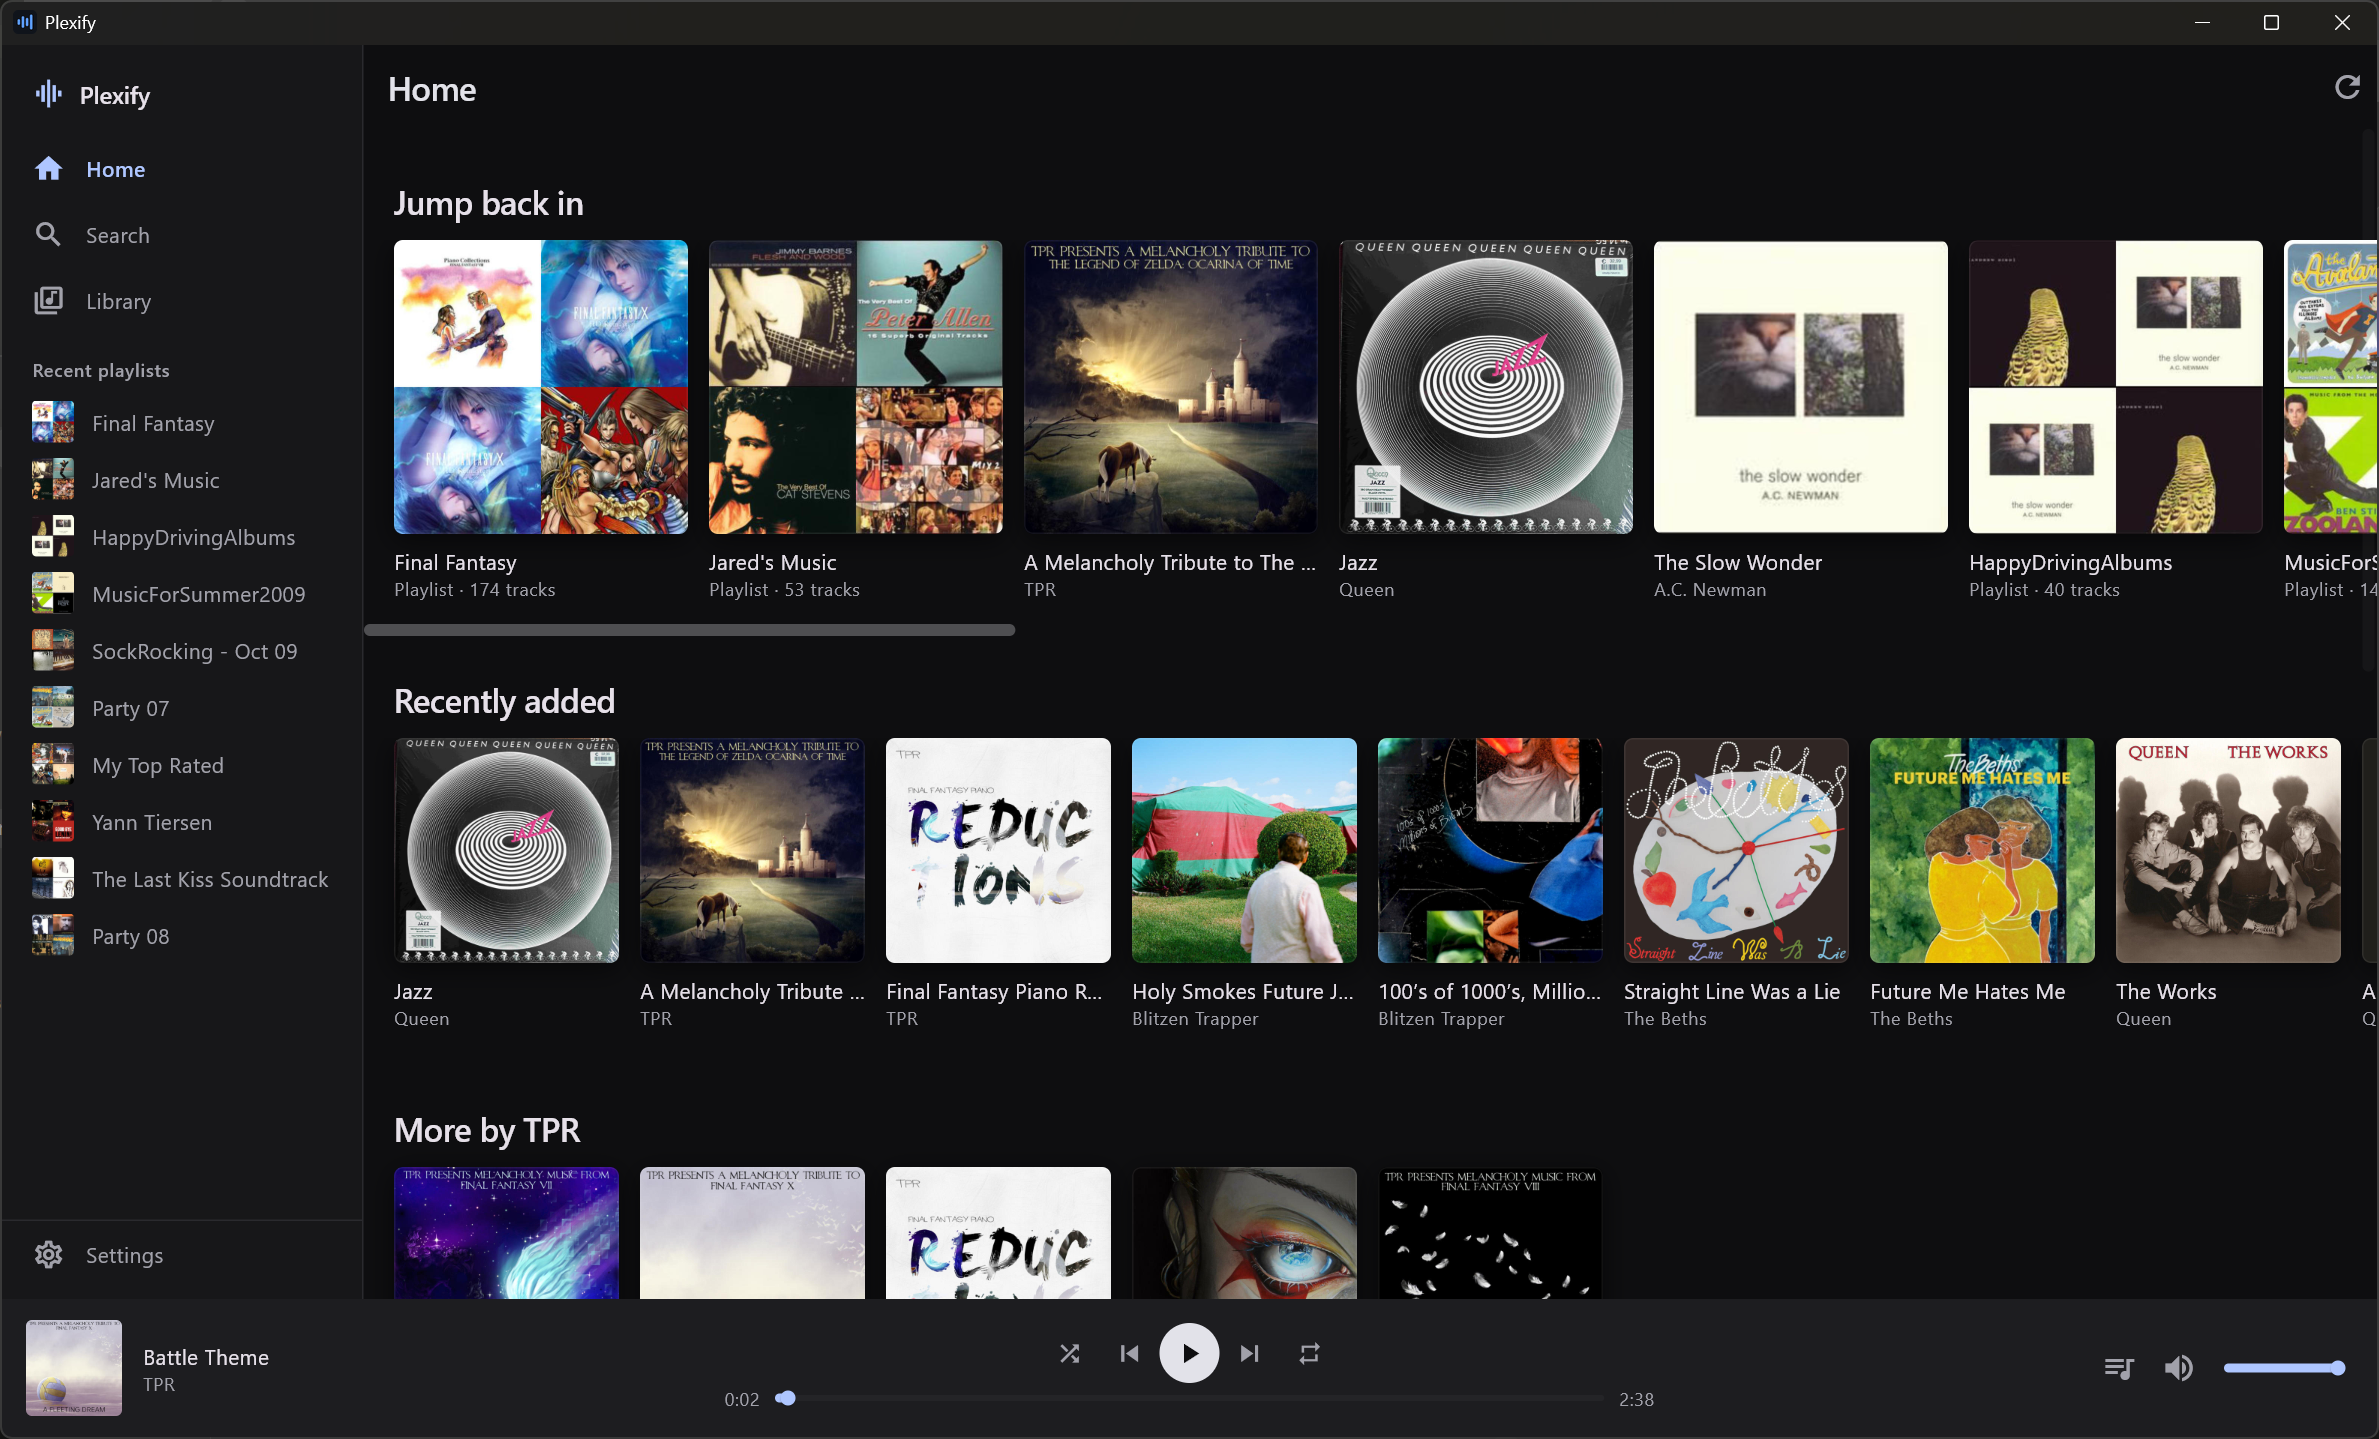
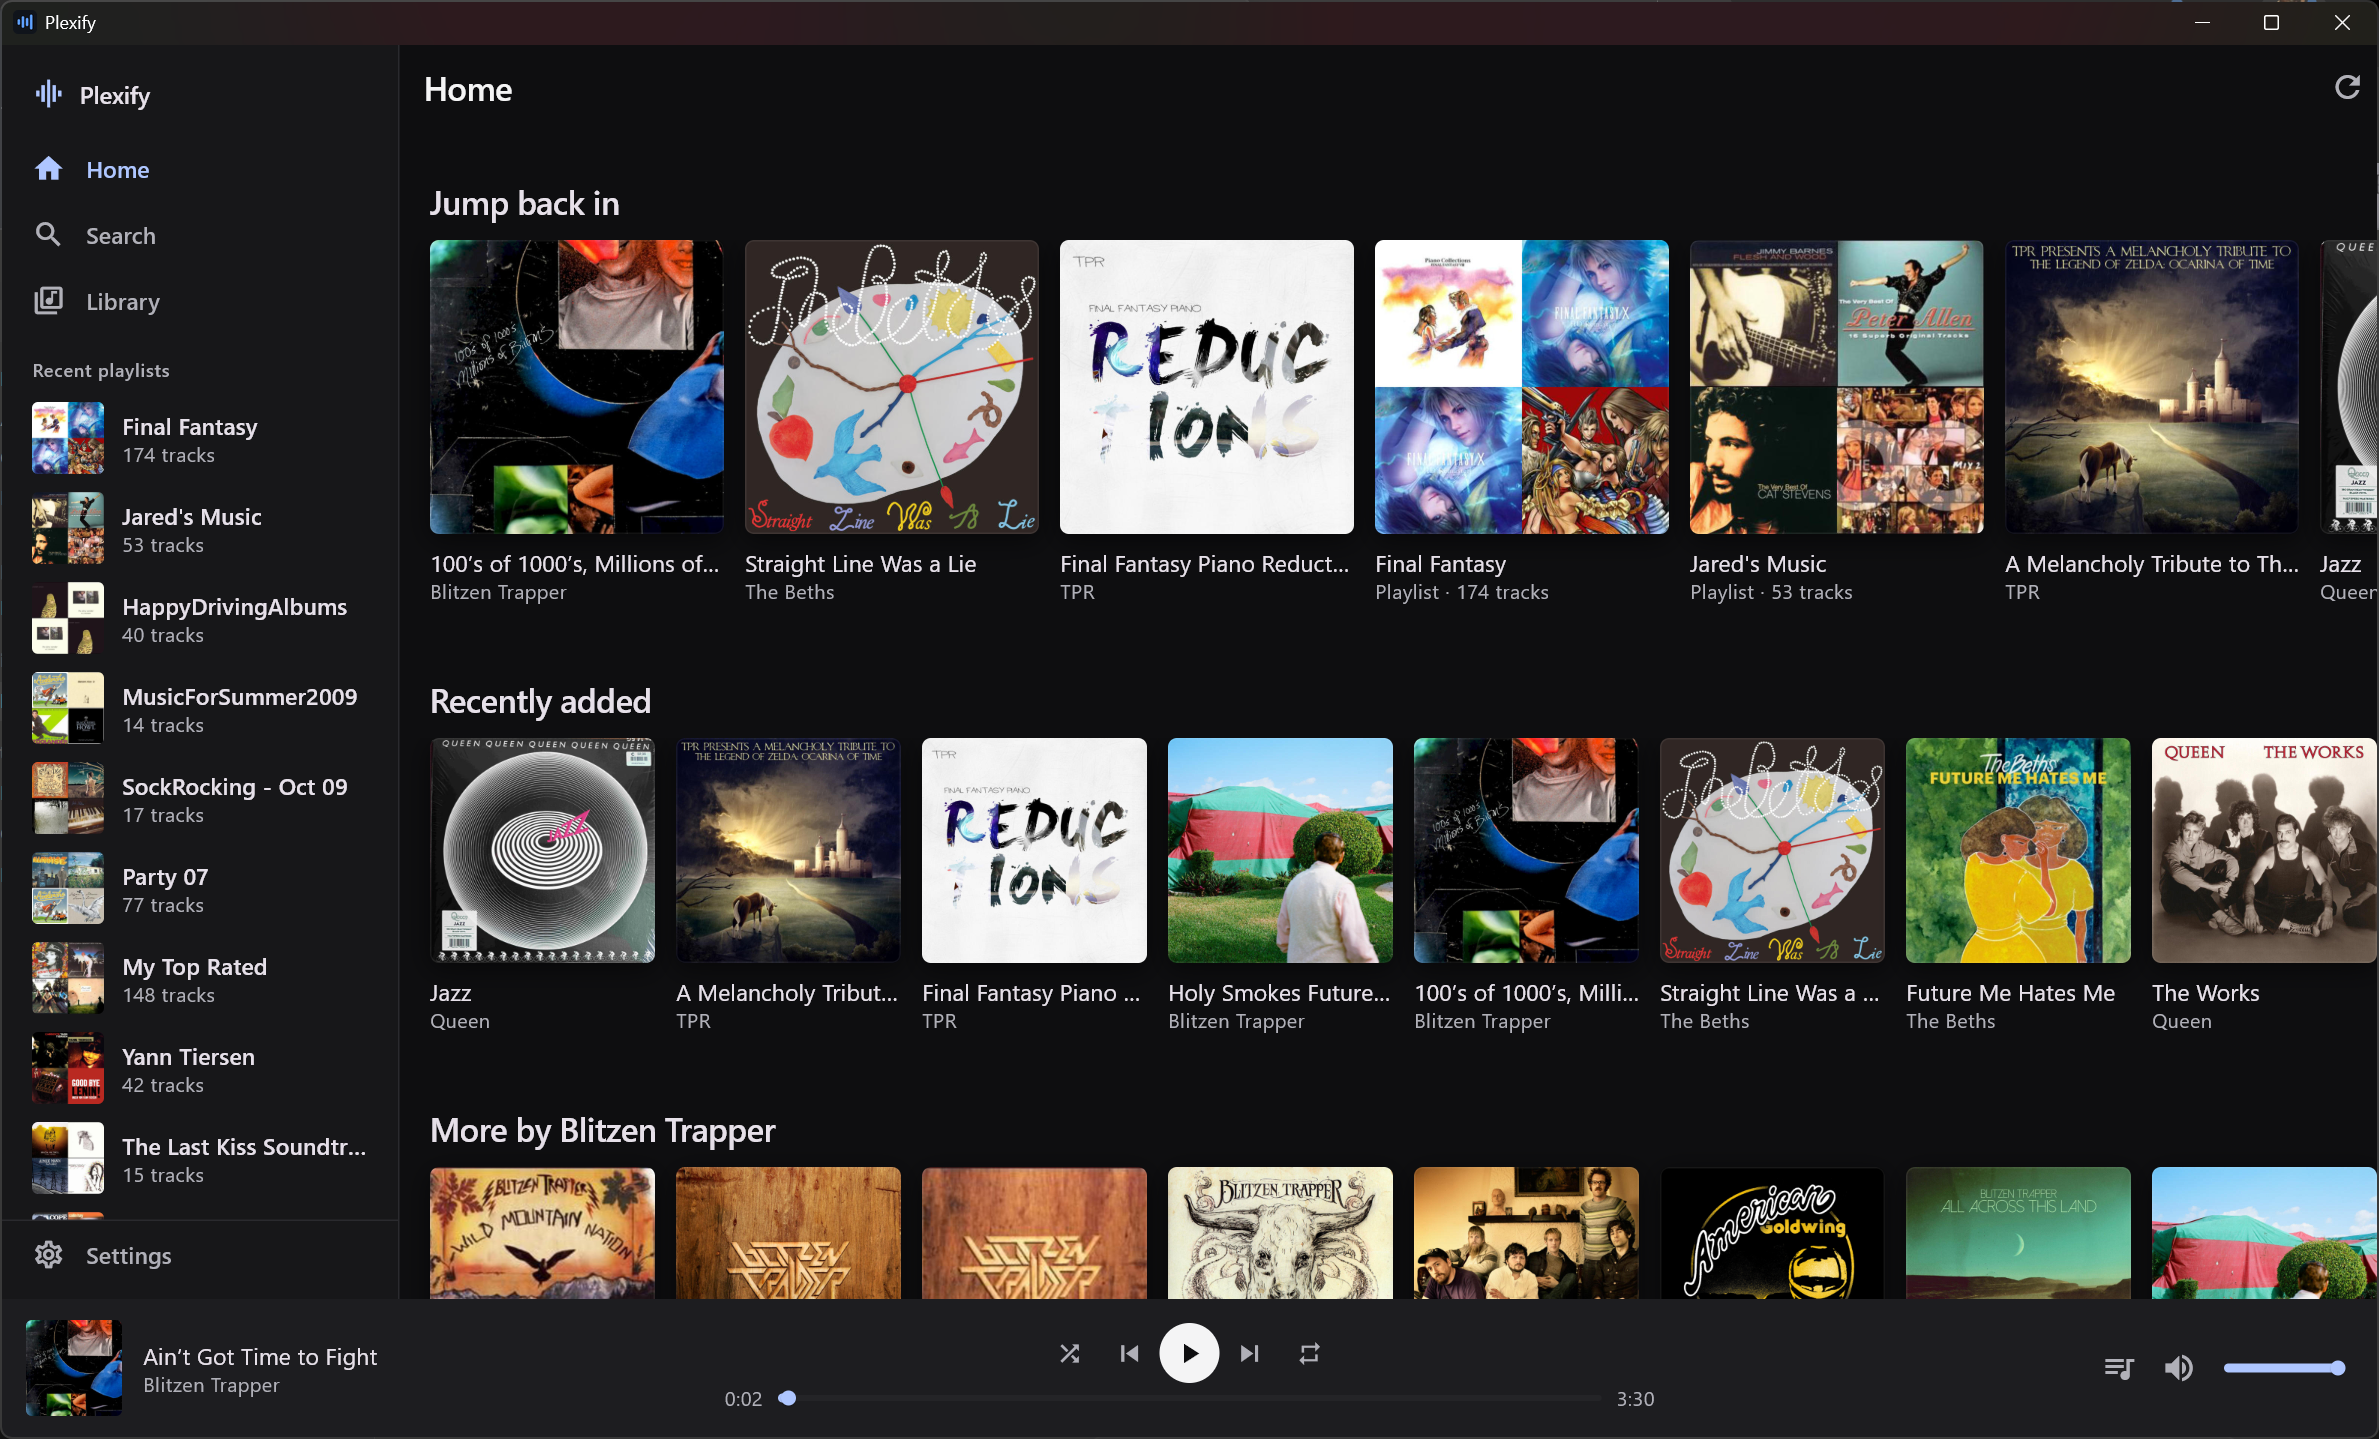
Give text the weight and the size to be read at a glance
Three things, and the first is a miss from the visual pass rather than a new
idea.

onSurface was never neutralised. Surfaces and secondary text were, so every
title, track name and label in the app kept the accent's lavender cast while the
background behind it had lost it. Subtle alone, and the reason the text still did
not look quite like anyone else's next to Spotify.

Body text goes 14 to 15 and secondary 12 to 13. Material's default pairing is
sized for dense forms; this app is a list of names read at a glance from a couple
of feet away, which is what every other music player is sized for, and next to
one of those the difference reads as cramped rather than compact. Secondary text
also lifts from A1A1AA, which was legible and half a step darker than it needed
to be against a background this dark.

And titles go semibold wherever a name sits above a detail: sidebar playlists,
Home shelf tiles, album grid cells. Weight is what separates a title from its
detail, and colour alone left both reading as labels at two sizes. Sidebar
destinations go medium even when unselected, since at regular they read lighter
than the playlist names below them, which inverts the hierarchy.

573 tests, and the sizes were checked by building it and looking: every real
playlist name still fits the widened sidebar.

diff --git a/lib/shell/app.dart b/lib/shell/app.dart
@@ -69,11 +69,20 @@ class PlexifyApp extends ConsumerWidget {
       surfaceContainerHighest: dark
           ? const Color(0xFF242427)
           : const Color(0xFFE1E1E4),
+      // **The one the first pass missed.** Surfaces and secondary text were
+      // neutralised and this was not, so every title, every track name and
+      // every label in the app kept the seed's lavender cast while the
+      // background behind it had lost it. Subtle on its own and the reason the
+      // text still did not look quite like anyone else's.
+      onSurface: dark ? const Color(0xFFF4F4F5) : const Color(0xFF18181B),
+
       // Kept a touch cool rather than pure grey. Perfectly neutral secondary
       // text on a near-black background reads as slightly dirty, and this is
-      // the most-used colour in the app by a distance.
+      // the most-used colour in the app by a distance. Lifted from A1A1AA,
+      // which was legible and half a step darker than it needed to be against
+      // a background this dark.
       onSurfaceVariant: dark
-          ? const Color(0xFFA1A1AA)
+          ? const Color(0xFFB0B0B8)
           : const Color(0xFF52525B),
       outlineVariant: dark ? const Color(0xFF2A2A2E) : const Color(0xFFD4D4D8),
     );
@@ -124,9 +133,18 @@ class PlexifyApp extends ConsumerWidget {
   /// visual weight as the album titles underneath them — so a row of covers had
   /// no heading so much as a caption floating above it. Slightly larger,
   /// heavier and tighter is enough to bind a header to its row.
+  /// Body text is a point larger than Material's default, and secondary text
+  /// two.
+  ///
+  /// Material's 14/12 pairing is sized for dense forms. This app is a list of
+  /// names read at a glance from a couple of feet away, which is what every
+  /// other music player is sized for, and next to one of those the difference
+  /// reads as the text being cramped rather than as the app being compact.
   static TextTheme _textTheme(Brightness brightness) {
     final base = ThemeData(brightness: brightness).textTheme;
     return base.copyWith(
+      bodyMedium: base.bodyMedium?.copyWith(fontSize: 15),
+      bodySmall: base.bodySmall?.copyWith(fontSize: 13),
       titleLarge: base.titleLarge?.copyWith(
         fontWeight: FontWeight.w600,
         letterSpacing: -0.4,

diff --git a/lib/shell/sidebar.dart b/lib/shell/sidebar.dart
@@ -168,7 +168,11 @@ class _NavItem extends StatelessWidget {
               label,
               style: theme.textTheme.bodyMedium?.copyWith(
                 color: colour,
-                fontWeight: selected ? FontWeight.w600 : FontWeight.w400,
+                // Medium rather than regular even when unselected. These are
+                // three permanent labels rather than prose, and at regular
+                // weight they read as lighter than the playlist names beneath
+                // them, which inverts the hierarchy.
+                fontWeight: selected ? FontWeight.w600 : FontWeight.w500,
               ),
             ),
           ],
@@ -240,7 +244,13 @@ class _PlaylistItem extends StatelessWidget {
                     playlist.title,
                     maxLines: 1,
                     overflow: TextOverflow.ellipsis,
-                    style: theme.textTheme.bodyMedium,
+                    // Semibold, so the name and the count under it are not the
+                    // same thing at two sizes. Weight is what separates a title
+                    // from its detail; size alone leaves both looking like
+                    // labels.
+                    style: theme.textTheme.bodyMedium?.copyWith(
+                      fontWeight: FontWeight.w600,
+                    ),
                   ),
                   Text(
                     playlistSubtitle(playlist),

diff --git a/lib/features/home/home_screen.dart b/lib/features/home/home_screen.dart
@@ -244,7 +244,13 @@ class _ShelfTile extends StatelessWidget {
               entry.title,
               maxLines: 1,
               overflow: TextOverflow.ellipsis,
-              style: theme.textTheme.bodyMedium,
+              // Semibold, matching the sidebar. A cover, a name and a detail
+              // under it is the same shape everywhere in this app, and weight
+              // is what separates the name from the detail; colour alone
+              // leaves both reading as labels.
+              style: theme.textTheme.bodyMedium?.copyWith(
+                fontWeight: FontWeight.w600,
+              ),
             ),
             Text(
               entry.subtitle,

diff --git a/lib/features/library/album_list_screen.dart b/lib/features/library/album_list_screen.dart
@@ -92,7 +92,10 @@ class _AlbumTile extends StatelessWidget {
             album.title,
             maxLines: 1,
             overflow: TextOverflow.ellipsis,
-            style: theme.textTheme.bodyMedium,
+            // Semibold, matching the sidebar and the Home shelves.
+            style: theme.textTheme.bodyMedium?.copyWith(
+              fontWeight: FontWeight.w600,
+            ),
           ),
           Text(
             album.artist,

diff --git a/CHANGELOG.md b/CHANGELOG.md
@@ -28,6 +28,10 @@ Two things do not belong here, and leaving them out is what keeps it readable:
 
 - Playlist thumbnails in the sidebar are larger, with the track count under the name. A
   mosaic at the old size was a colour swatch rather than a picture of anything.
+- Body text is a point larger and titles are semibold, so a name and the detail under it are
+  no longer the same thing at two sizes.
+- Primary text is a true neutral. It kept a faint tint from the accent colour while the
+  background behind it had already lost one.
 
 ## [0.9.0] - 2026-08-10
 
